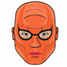
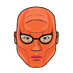
the tileSpr was optimized in grid size and 1.2 * grid size.. it was too agonizing

diff --git a/possible implementation/Grid/Tile.cpp b/possible implementation/Grid/Tile.cpp
@@ -1,4 +1,5 @@
 #include "Tile.h"
+#include <iostream>
 
 Tile::Tile()
 {
@@ -37,7 +38,111 @@ void Tile::setScale(const sf::Vector2f& scale)
 {
 	tileModSpr.setScale(scale);
 	if (isHeroSpr)
-		heroSpr->setScale(scale);
+		if (scale.x != 1.2f)
+			heroSpr->setScale(scale);
+		else
+		{
+			delete heroSpr;
+			switch (currentHero)
+			{
+			case heros::mrsGhost:
+			{
+				heroSpr = new sf::Sprite();
+				heroTex->loadFromFile("Grid/heroIcon/1.2bigger/mrs_ghost icon.png");
+				heroSpr->setTexture(*heroTex);
+				heroSpr->setPosition(sf::Vector2f(this->getPosition().x + 4, this->getPosition().y + 2));
+				break;
+			}
+			case heros::robi:
+			{
+				heroSpr = new sf::Sprite();
+				heroTex->loadFromFile("Grid/heroIcon/1.2bigger/robi icon.png");
+				heroSpr->setTexture(*heroTex);
+				heroSpr->setPosition(sf::Vector2f(this->getPosition().x + 4, this->getPosition().y + 2));
+				break;
+			}
+			case heros::leon:
+			{
+				heroSpr = new sf::Sprite();
+				heroTex->loadFromFile("Grid/heroIcon/1.2bigger/leon icon.png");
+				heroSpr->setTexture(*heroTex);
+				heroSpr->setPosition(sf::Vector2f(this->getPosition().x + 4, this->getPosition().y + 2));
+				break;
+			}
+			case heros::drMarry:
+			{
+				heroSpr = new sf::Sprite();
+				heroTex->loadFromFile("Grid/heroIcon/1.2bigger/dr_marry icon.png");
+				heroSpr->setTexture(*heroTex);
+				heroSpr->setPosition(sf::Vector2f(this->getPosition().x + 4, this->getPosition().y + 2));
+				break;
+			}
+			case heros::sniper:
+			{
+				heroSpr = new sf::Sprite();
+				heroTex->loadFromFile("Grid/heroIcon/1.2bigger/sniper icon.png");
+				heroSpr->setTexture(*heroTex);
+				heroSpr->setPosition(sf::Vector2f(this->getPosition().x + 4, this->getPosition().y + 2));
+				break;
+			}
+			case heros::kratos:
+			{
+				heroSpr = new sf::Sprite();
+				heroTex->loadFromFile("Grid/heroIcon/1.2bigger/kratos icon.png");
+				heroSpr->setTexture(*heroTex);
+				heroSpr->setPosition(sf::Vector2f(this->getPosition().x + 4, this->getPosition().y + 2));
+				break;
+			}
+			case heros::giant:
+			{
+				heroSpr = new sf::Sprite();
+				heroTex->loadFromFile("Grid/heroIcon/1.2bigger/giant icon.png");
+				heroSpr->setTexture(*heroTex);
+				heroSpr->setPosition(sf::Vector2f(this->getPosition().x + 4, this->getPosition().y + 2));
+				break;
+			}
+			case heros::alphaMan:
+			{
+				heroSpr = new sf::Sprite();
+				heroTex->loadFromFile("Grid/heroIcon/1.2bigger/alpha_man icon.png");
+				heroSpr->setTexture(*heroTex);
+				heroSpr->setPosition(sf::Vector2f(this->getPosition().x + 4, this->getPosition().y + 2));
+				break;
+			}
+			case heros::professor:
+			{
+				heroSpr = new sf::Sprite();
+				heroTex->loadFromFile("Grid/heroIcon/1.2bigger/professor icon.png");
+				heroSpr->setTexture(*heroTex);
+				heroSpr->setPosition(sf::Vector2f(this->getPosition().x + 4, this->getPosition().y + 2));
+				break;
+			}
+			case heros::commander:
+			{
+				heroSpr = new sf::Sprite();
+				heroTex->loadFromFile("Grid/heroIcon/1.2bigger/commander icon.png");
+				heroSpr->setTexture(*heroTex);
+				heroSpr->setPosition(sf::Vector2f(this->getPosition().x + 4, this->getPosition().y + 2));
+				break;
+			}
+			case heros::rickKhonsari:
+			{
+				heroSpr = new sf::Sprite();
+				heroTex->loadFromFile("Grid/heroIcon/1.2bigger/rick_konsari icon.png");
+				heroSpr->setTexture(*heroTex);
+				heroSpr->setPosition(sf::Vector2f(this->getPosition().x + 4, this->getPosition().y + 2));
+				break;
+			}
+			case heros::sybil:
+			{
+				heroSpr = new sf::Sprite();
+				heroTex->loadFromFile("Grid/heroIcon/1.2bigger/sybil icon.png");
+				heroSpr->setTexture(*heroTex);
+				heroSpr->setPosition(sf::Vector2f(this->getPosition().x + 4, this->getPosition().y + 2));
+				break;
+			}
+			}
+		}
 }
 sf::FloatRect Tile::getGlobalBound()
 {

diff --git a/possible implementation/Menus/Battlefield.cpp b/possible implementation/Menus/Battlefield.cpp
@@ -89,8 +89,8 @@ void Battlefield::click(sf::Vector2i& pos, menuType& currentMenu)
 	if (grid.getGlobalBound().contains(sf::Vector2f(pos)) && battleCardManager.getSelectedCard() != heros::none)
 		grid.battlefieldClicked(pos, playerManager);
 
-	// attack prossecc
-	std::cout << playerManager->playerArr.at(1)->attackedHero << std::endl;
+	// attack prossecc by player.attackedPlayer and battleCard.selectedCard =))
+
 
 	// changing the turn
 	if (_p != playerManager->getTheTurn())
